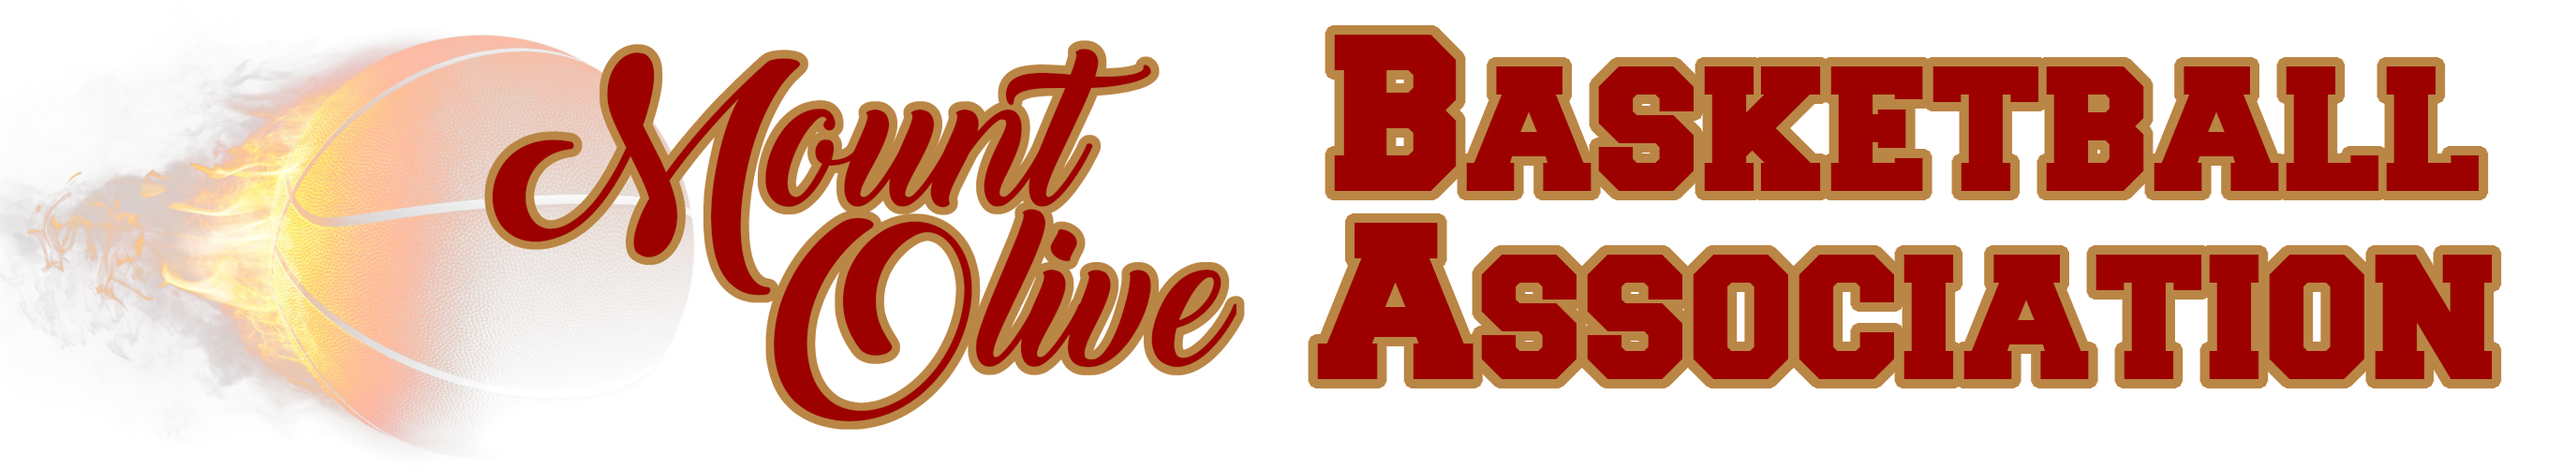
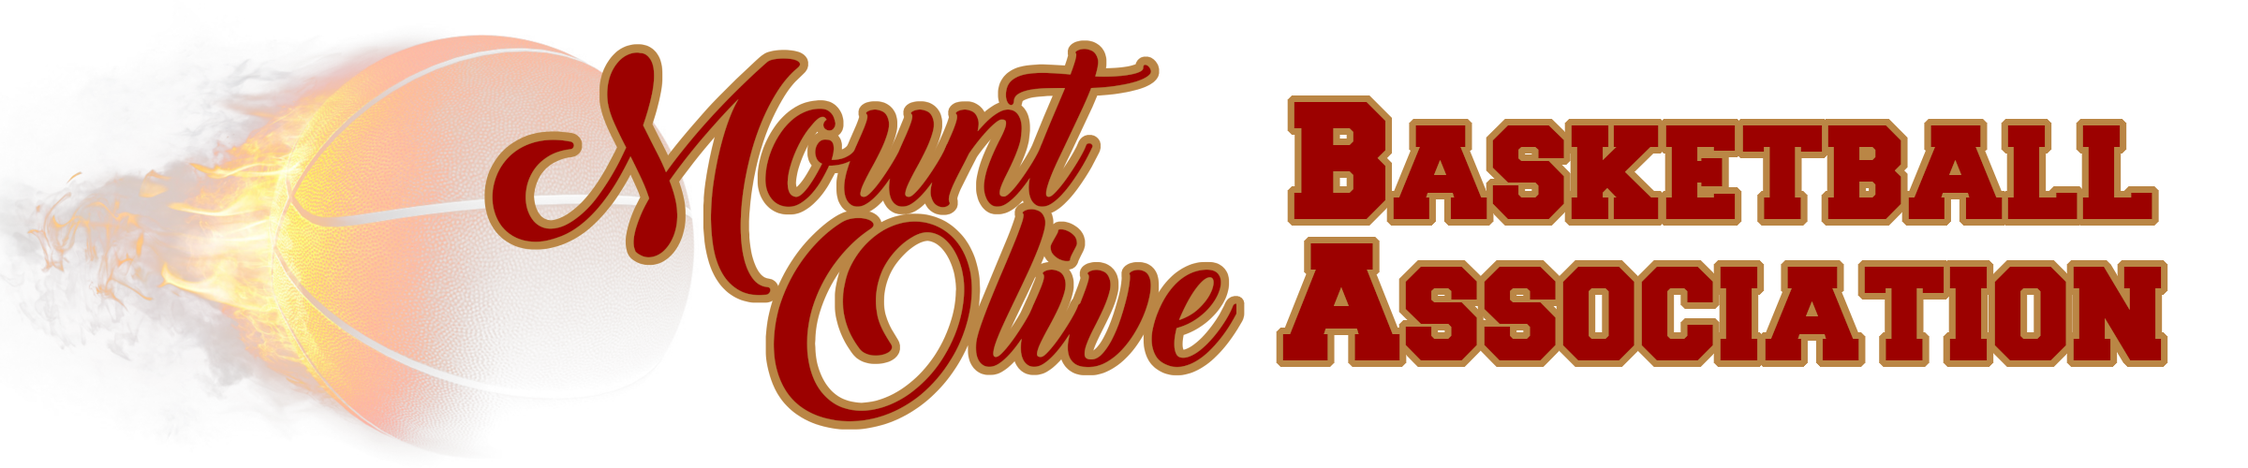
updates for e-mail signature

diff --git a/setup/E-Mail-Signature-Sample.html b/setup/E-Mail-Signature-Sample.html
@@ -3,7 +3,7 @@
 	<span style="font-weight:bold; font-style:italic;">FULL-NAME</span><br/>
 	<span style="font-style:italic;">TITLE</span><br/>
 	<span style="font-size:smaller;">c. (XXX) XXX-XXXX | <a href="mailto:EMAIL@moba.com">EMAIL@moba.com</a></span><br/>
-	<a href="http://www.mobasketball.org/" target="_blank"><img width=280 height=75 src="https://mobasketball.github.io/images/email-signature.png" /></a>
+	<a href="http://www.mobasketball.org/" target="_blank"><img width=360 height=75 src="https://mobasketball.github.io/images/email-signature.png" /></a>
 	<br/>
 	<div>
 		<a style="margin-right:25px;" href="http://www.mobasketball.org/" target="_blank"><img width=32 height=32 src="https://mobasketball.github.io/assets/icons/LeagueApps.png" alt="SportsEngine" /></a>
